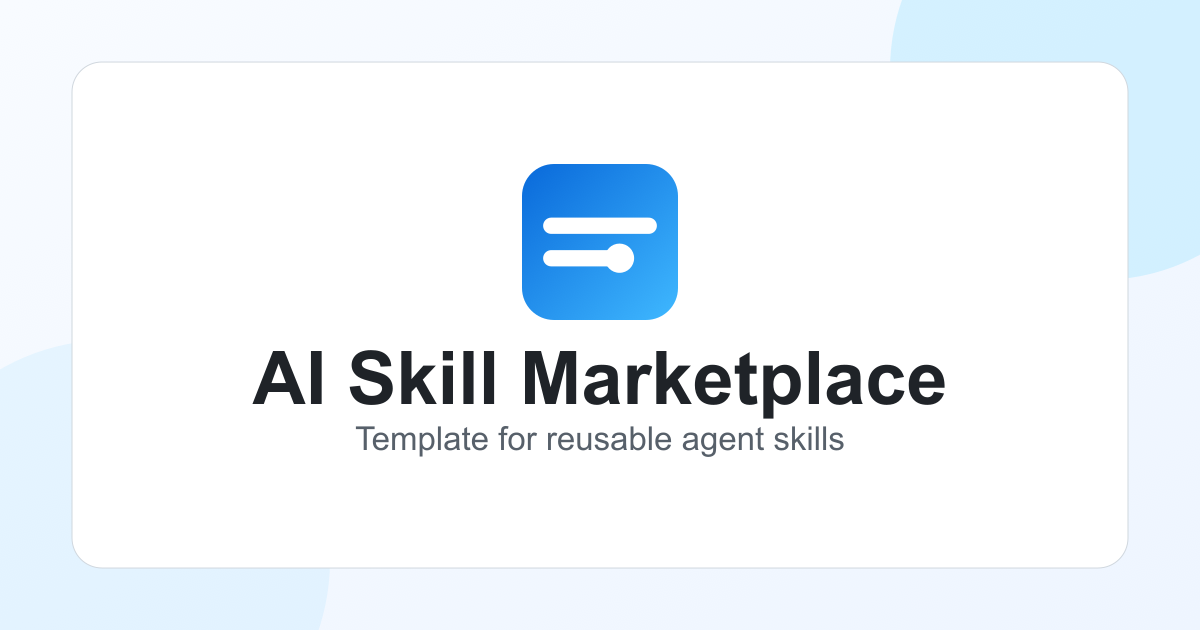
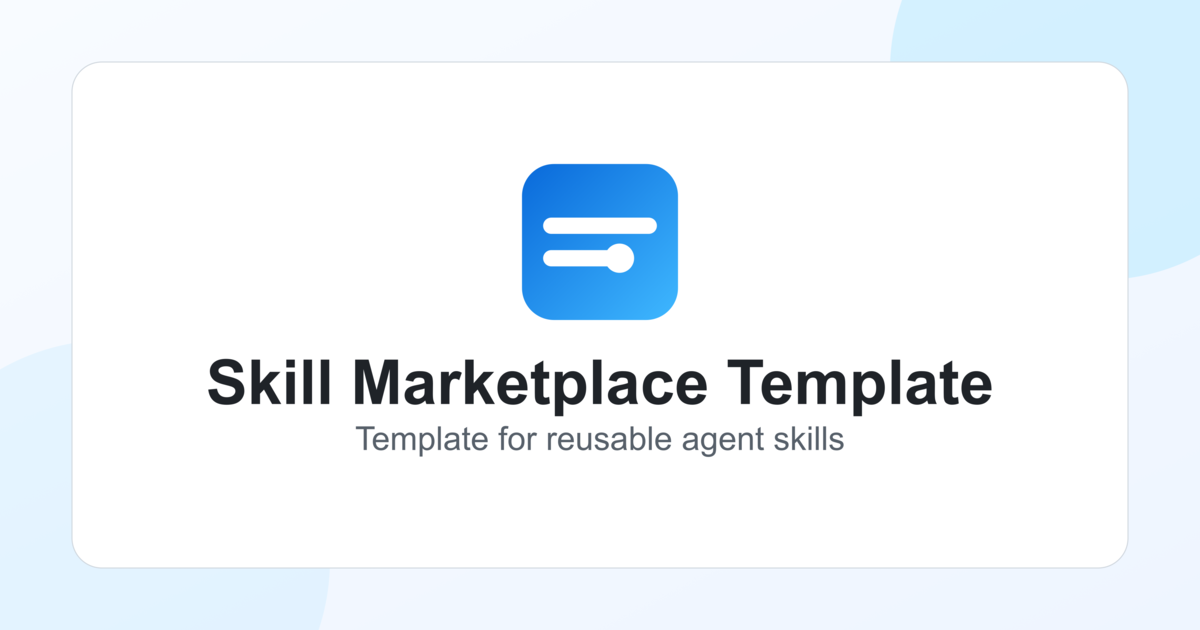
Rename marketplace branding and refresh preview image

Changed region(s): [[0.1542, 0.5429, 0.8325, 0.6635], [0.4625, 0.2413, 0.5242, 0.2714], [0.4625, 0.4825, 0.4933, 0.5127]]

diff --git a/marketplace/index.html b/marketplace/index.html
@@ -5,10 +5,10 @@
     <meta name="viewport" content="width=device-width, initial-scale=1">
     <meta name="author" content="Zhouyou Gu">
     <meta name="license" content="MIT">
-    <meta name="description" content="Fork-friendly, GitHub-native marketplace template for reusable AI agent skills.">
+    <meta name="description" content="Fork-friendly, GitHub-native marketplace template for reusable agent skills.">
     <meta name="theme-color" content="#1f6f62">
     <link rel="canonical" href="./">
-    <title>AI Skill Marketplace Template</title>
+    <title>Skill Marketplace Template</title>
     <link rel="icon" href="assets/icon.svg" type="image/svg+xml" sizes="any">
     <link rel="icon" href="assets/favicon-32.png" type="image/png" sizes="32x32">
     <link rel="icon" href="assets/favicon-16.png" type="image/png" sizes="16x16">
@@ -16,20 +16,20 @@
 
     <meta property="og:type" content="website">
     <meta property="og:url" content="./">
-    <meta property="og:title" content="AI Skill Marketplace Template">
+    <meta property="og:title" content="Skill Marketplace Template">
     <meta property="og:description" content="Reusable agent skills with a registry-first, GitHub-native workflow.">
     <meta property="og:image" content="assets/preview.png?v=3">
     <meta property="og:image:secure_url" content="assets/preview.png?v=3">
     <meta property="og:image:type" content="image/png">
     <meta property="og:image:width" content="1200">
     <meta property="og:image:height" content="630">
-    <meta property="og:image:alt" content="AI Skill Marketplace preview card">
+    <meta property="og:image:alt" content="Skill Marketplace preview card">
 
     <meta name="twitter:card" content="summary_large_image">
-    <meta name="twitter:title" content="AI Skill Marketplace Template">
-    <meta name="twitter:description" content="Fork-friendly marketplace template for reusable AI agent skills.">
+    <meta name="twitter:title" content="Skill Marketplace Template">
+    <meta name="twitter:description" content="Fork-friendly marketplace template for reusable agent skills.">
     <meta name="twitter:image" content="assets/preview.png?v=3">
-    <meta name="twitter:image:alt" content="AI Skill Marketplace preview card">
+    <meta name="twitter:image:alt" content="Skill Marketplace preview card">
     <link rel="preconnect" href="https://fonts.googleapis.com">
     <link rel="preconnect" href="https://fonts.gstatic.com" crossorigin>
     <link href="https://fonts.googleapis.com/css2?family=Space+Grotesk:wght@400;500;700&family=Source+Serif+4:opsz,wght@8..60,400;8..60,600&display=swap" rel="stylesheet">
@@ -46,8 +46,8 @@
           <span class="hero-brand-text">Skill Marketplace</span>
         </div>
         <p class="eyebrow">Open Source • Community Driven</p>
-        <h1 id="marketplace-title">AI Skill Marketplace Template</h1>
-        <p id="marketplace-description" class="hero-lead">Discover and share skills that make AI agents smarter.</p>
+        <h1 id="marketplace-title">Skill Marketplace Template</h1>
+        <p id="marketplace-description" class="hero-lead">Discover and share skills that make agents smarter.</p>
         <p id="hero-stats" class="hero-stats" aria-live="polite">Loading marketplace statistics...</p>
       </header>
 
@@ -69,7 +69,7 @@
           <article class="feature-card">
             <div class="feature-icon" aria-hidden="true">🔌</div>
             <h3>Universal Standards</h3>
-            <p>MCP-compatible schemas work with all AI frameworks.</p>
+            <p>MCP-compatible schemas work with all frameworks.</p>
           </article>
         </div>
       </section>
@@ -83,7 +83,7 @@
             Start using skills now
           </h2>
           <p class="quickstart-description">
-            <span class="quickstart-description-main">Copy this URL and add it to your AI agent configuration.</span>
+            <span class="quickstart-description-main">Copy this URL and add it to your agent configuration.</span>
             <span class="quickstart-description-alt">Or ask your agent to install directly from this URL.</span>
           </p>
         </div>

diff --git a/index.html b/index.html
@@ -3,10 +3,10 @@
   <head>
     <meta charset="utf-8">
     <meta name="viewport" content="width=device-width, initial-scale=1">
-    <meta name="description" content="Fork-friendly, GitHub-native marketplace template for reusable AI agent skills.">
+    <meta name="description" content="Fork-friendly, GitHub-native marketplace template for reusable agent skills.">
     <meta name="theme-color" content="#1f6f62">
     <link rel="canonical" href="./">
-    <title>AI Skill Marketplace Template</title>
+    <title>Skill Marketplace Template</title>
     <link rel="icon" href="./marketplace/assets/icon.svg" type="image/svg+xml" sizes="any">
     <link rel="icon" href="./marketplace/assets/favicon-32.png" type="image/png" sizes="32x32">
     <link rel="icon" href="./marketplace/assets/favicon-16.png" type="image/png" sizes="16x16">
@@ -14,20 +14,20 @@
 
     <meta property="og:type" content="website">
     <meta property="og:url" content="./">
-    <meta property="og:title" content="AI Skill Marketplace Template">
+    <meta property="og:title" content="Skill Marketplace Template">
     <meta property="og:description" content="Reusable agent skills with a registry-first, GitHub-native workflow.">
     <meta property="og:image" content="./marketplace/assets/preview.png?v=3">
     <meta property="og:image:secure_url" content="./marketplace/assets/preview.png?v=3">
     <meta property="og:image:type" content="image/png">
     <meta property="og:image:width" content="1200">
     <meta property="og:image:height" content="630">
-    <meta property="og:image:alt" content="AI Skill Marketplace preview card">
+    <meta property="og:image:alt" content="Skill Marketplace preview card">
 
     <meta name="twitter:card" content="summary_large_image">
-    <meta name="twitter:title" content="AI Skill Marketplace Template">
-    <meta name="twitter:description" content="Fork-friendly marketplace template for reusable AI agent skills.">
+    <meta name="twitter:title" content="Skill Marketplace Template">
+    <meta name="twitter:description" content="Fork-friendly marketplace template for reusable agent skills.">
     <meta name="twitter:image" content="./marketplace/assets/preview.png?v=3">
-    <meta name="twitter:image:alt" content="AI Skill Marketplace preview card">
+    <meta name="twitter:image:alt" content="Skill Marketplace preview card">
 
     <meta http-equiv="refresh" content="0; url=./marketplace/">
   </head>

diff --git a/README.md b/README.md
@@ -1,6 +1,6 @@
 # Skill Marketplace Template
 
-Fork-friendly, GitHub-native template for building a marketplace of reusable AI agent skills.
+Fork-friendly, GitHub-native template for building a marketplace of reusable agent skills.
 
 **Author:** Zhouyou Gu  
 **License:** MIT
